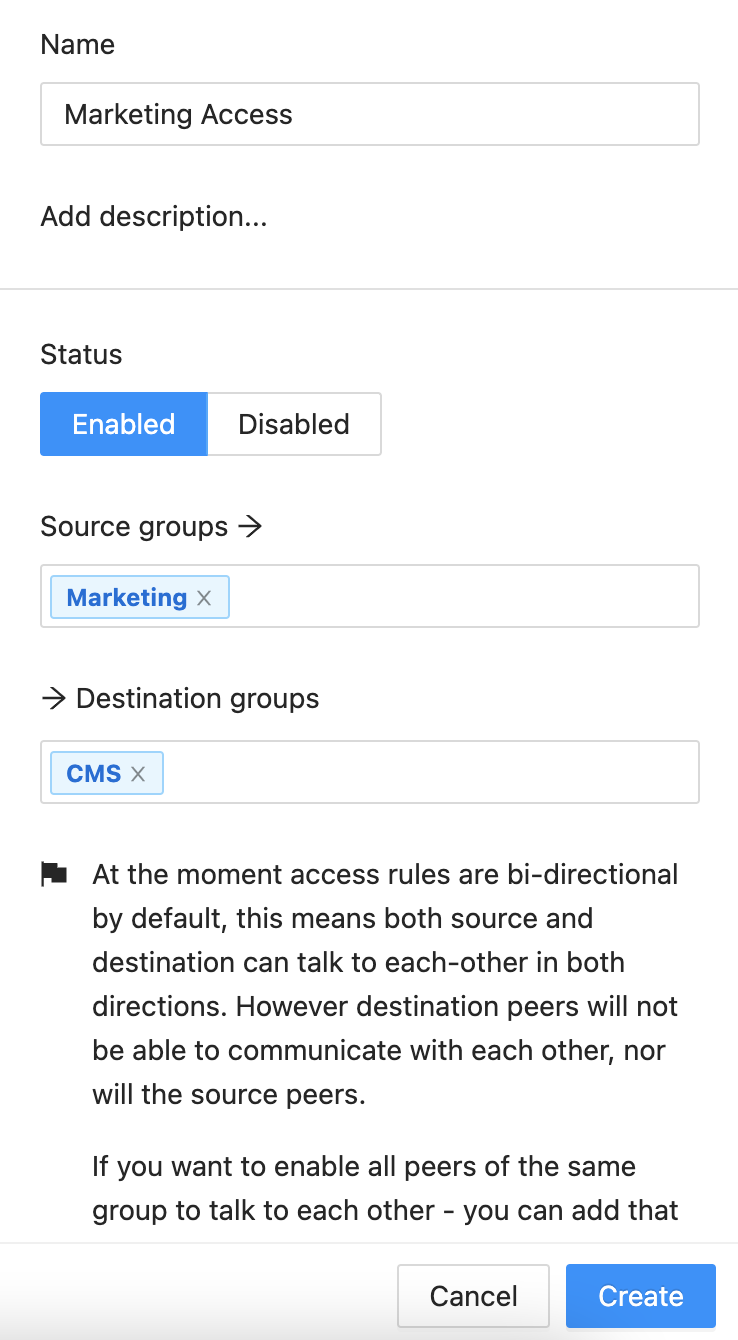
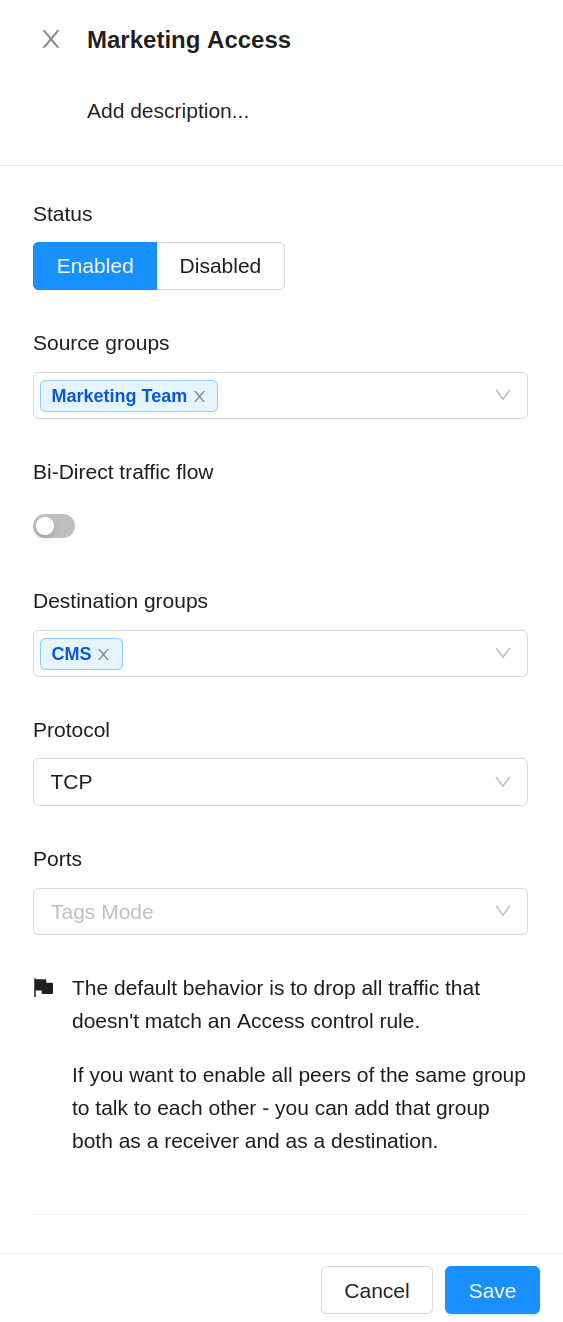
Add to ACL handle of firewall support in the Linux platform

diff --git a/docs/overview/acls.md b/docs/overview/acls.md
@@ -4,16 +4,14 @@ sidebar_position: 4
 
 # Access Control
 NetBird allows administrators to restrict access to resources (peers) by creating access rules and
-defining what peer groups are permitted to establish connections with one another.
-
-<div class="videowrapper">
-<iframe src="https://www.youtube.com/embed/WvbkACjdsHA" allow="fullscreen;"></iframe>
-</div>
+defining what peer groups are permitted to establish connections with one another. Rule can allow connections
+by specific protocol and ports (only on the Linux).
 
 ## Introduction
-A NetBird account comes with a `Default` rule that allows all peers of the account to connect to each other forming a full mesh network.
-In most cases, this is the desired state for a small network or network that has low-security requirements.
-When you need to restrict access to certain resources that belong to specific users or services within your organization, you can create rules that dictate who can access what.
+A NetBird account comes with a `Default` rule that allows all peers of the account to connect to each other by all protocols,
+forming a full mesh network. In most cases, this is the desired state for a small network or network that has low-security requirements.
+When you need to restrict access to certain resources that belong to specific users or services within your organization,
+you can create rules that dictate who can access what.
 
 Access control rules make use of groups to control connections between peers; these groups can be added as `Source` or `Destination` of a rule and will be evaluated when the Management service distributes the list of peers across your network.
 
@@ -36,13 +34,14 @@ You can assign groups automatically with the [peer auto-grouping feature](/overv
 
 ### The All Group
 The `All` group is a default group to which every peer in your network is automatically added to. This group cannot be modified or deleted.
+
 ### Rules
-Rules are lists of `Source` and `Destination` groups of peers that can communicate with each other.
+Rules are defined as sets of Source and Destination peer groups, which specify the allowable communication between them.
+Depending on the rule configuration, this communication can be either bidirectional or unidirectional (only on the Linux).
 Rules are processed when the Management service distributes a network map to all peers of your account. Because you can only create ALLOW rules, there is no processing
 order or priority, so the decision to distribute peer information is based on its association with a group belonging to an existing rule.
 
-Currently, the communication between lists of groups in source and destination lists of a rule is bidirectional,
-meaning that destinations can also initiate connections to a group of peers listed in the source field of the rule.
+If the rule is bidirectional (by default), groups in destination lists can also initiate connections to a group of peers listed in the source field of the rule.
 
 The behavior of a network without any rules is to deny traffic. No peers will be able to communicate with each other.
 
@@ -60,14 +59,14 @@ If you need to restrict communication within your network, you can create new ru
 :::
 
 ### Multiple Mesh Networks
-As mentioned above, rules are bidirectional, which is basically the control of how your network will behave as a mesh network. 
+As mentioned above, rules are bidirectional (except in Linux, where you can use unidirectional connections), which is basically the control of how your network will behave as a mesh network. 
 
 There is a `Default` rule, which configures a Default mesh connection between all peers of your network. With rules, you can define smaller mesh networks by grouping peers and adding these groups to `Source` and `Destination` lists. 
 ## Managing Rules
 
 ### Creating Rules
 After accessing the `Access Control` tab, you can click on the `Add Rule` button to create a new rule. This will open a screen 
-where you need to name the rule, set its status, and add groups to the source and destination lists.
+where you need to name the rule, set its status, and add groups to the source and destination lists. For Linux peers, you also can define the direction of the traffic, specific traffic types, and ports.
 
 <p align="center">
     <img src="/docs/img/overview/create-rule.png" alt="high-level-dia" width="300" style={{boxShadow: '0 4px 8px 0 rgba(0, 0, 0, 0.2), 0 6px 20px 0 rgba(0, 0, 0, 0.19)'}} />
@@ -102,9 +101,12 @@ You can assign groups automatically with the [peer auto-grouping feature](/overv
 
 ### Updating Rules
 To update a rule, you can click on the rule's `Name` or on either `Sources` and `Destinations` columns. You could also click the menu 
-button of a rule and select `View`. This will open the same screen where you can update rule groups, description, or status.
+button of a rule and select `View`. This will open the same screen where you can update rule groups, description, and status or change allowed 
+traffic direction and protocols with ports.
+
 ### Disabling Rules
 To disable a rule, you should follow the steps of [updating rules](#updating-rules) changing its status, and then click on Save.
+
 ### Deleting Rules
 To delete a rule, you should click on the rule's menu and choose `Delete`. A confirmation window will pop up.
 
